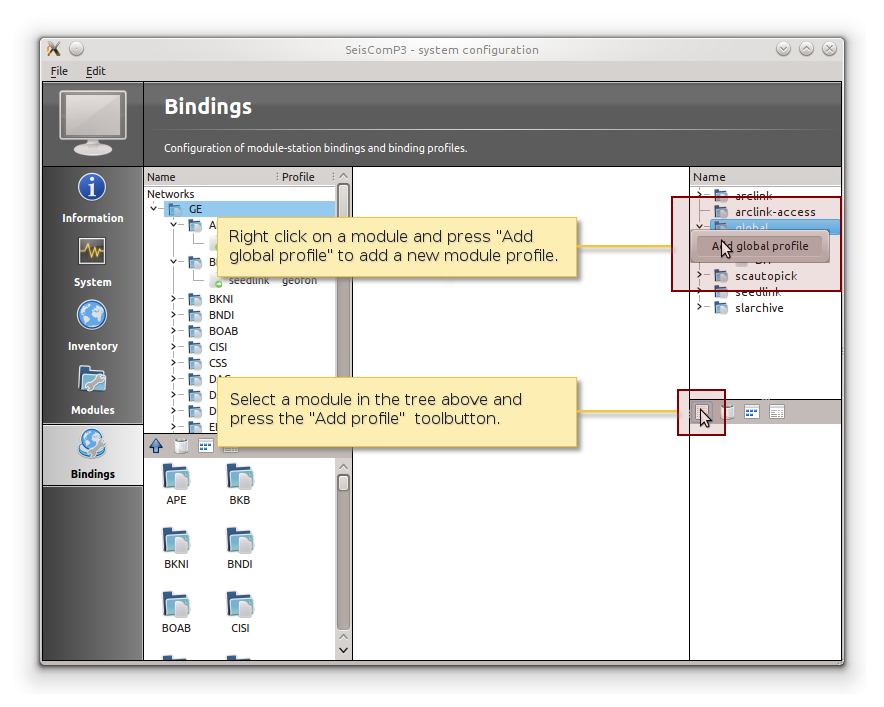
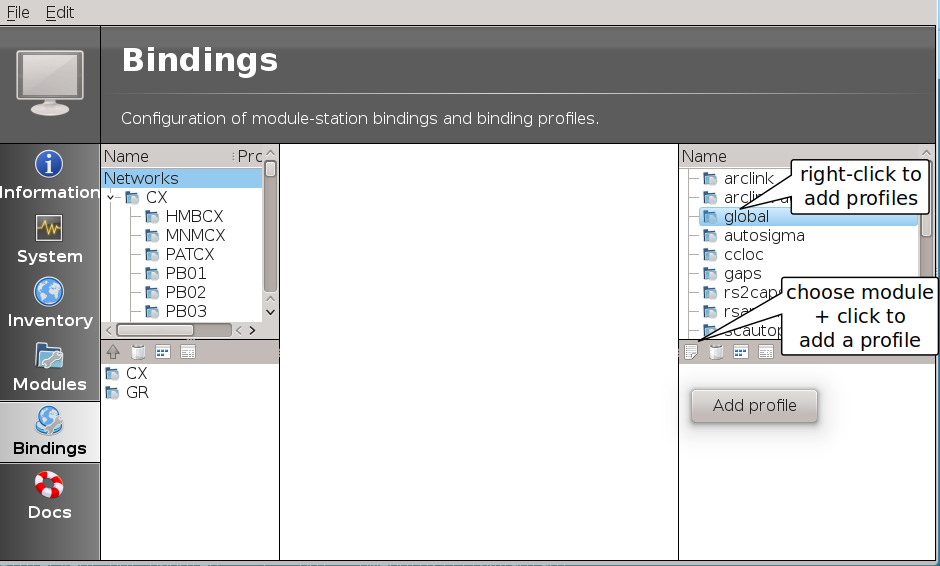
[scconfig] Update documentation

diff --git a/apps/tools/scconfig/descriptions/scconfig.rst b/apps/tools/scconfig/descriptions/scconfig.rst
@@ -1,11 +1,22 @@
-scconfig is a graphical user interface which allows to configure all SeisComP
-modules for which descriptions are provided.
+scconfig is a graphical user interface which allows to
+
+* Retrieve :ref:`information <scconfig-information>` about the installed |scname|
+  system,
+* :ref:`Control modules <scconfig-system>` and access logging file,
+* :ref:`Import, check, synchronize and remove <scconfig-inventory>` station meta
+  data/inventory,
+* Configure the :ref:`module configuration <scconfig-modules>` and
+  :ref:`bindings <scconfig-bindings>` all SeisComP modules for which descriptions
+  are provided,
+* Access the :ref:`documentation and the changelog <scconfig-documentation>`.
 
 The modules are usually programs part of the SeisComP system and have two
 distinct types of configuration:
 
-1. Modules configuration, or just program configuration (like the :file:`scautopick.cfg` file).
-2. Station bindings, that are set of parameters to configure how the module will treat a certain station. I.e. Station specific configurations per module.
+#. :ref:`Modules configuration <scconfig-modules>`, or just program configuration like the
+   :file:`scautopick.cfg` file.
+#. :ref:`Station bindings <scconfig-modules>`, that are set of parameters to configure how the module will
+   treat a certain station. I.e. Station specific configurations per module.
 
 The bindings configuration can be done using profiles, or directly per station.
 
@@ -75,6 +86,7 @@ is selected.
 
 .. figure:: media/scconfig/mainwindow.*
    :align: center
+   :width: 18cm
 
    Main window of scconfig: mode switch (red), panel selection (yellow),
    panel title and description (green),
@@ -95,6 +107,7 @@ configuration (:guilabel:`Save`) and to close the configuration (:guilabel:`Quit
 
 The edit menu allows to switch the current configuration mode. Pressing the
 switch button in the upper left corner (red box) is a shortcut for this operation.
+
 
 .. _scconfig-information:
 
@@ -120,6 +133,7 @@ The system panel is a graphical frontend for the :ref:`seiscomp <system-manageme
 
 .. figure:: media/scconfig/system-overview.*
    :align: center
+   :width: 18cm
 
 It is divided into 3 parts: the toolbar on the top (red), the module list (green)
 and the log window (blue).
@@ -163,20 +177,37 @@ without any module.
  module configuration or bindings have changed and before restarting the
  affected modules.
 
+For applying an action to all modules deselect any modules selection pressing
+:kbd:`ESC` and press the corresponding action button. When one ore multiple
+modules are selected, the action is only applied to those.
+
+
+To open the most recent log files of modules right click on the module name and
+select the available log.
+
+.. figure:: media/scconfig/system-start.png
+   :align: center
+   :width: 18cm
+
 
 .. _scconfig-inventory:
 
 Inventory panel
 ---------------
 
-The inventory panel allows to import and synchronize inventory files. It shows
+The inventory panel allows to import, check and synchronize inventory files as
+well as to inspect the content or to rename or remove the files. The panel shows
 a list of inventory XML files located in folder :file:`etc/inventory`. Only
-SeisComP XML files be used as source for inventory data but various importers
+:term:`SCML` files can be used as source for inventory data but various importers
 exist to integrate inventory data from other formats. After the first start
 the list is empty and contains only a README file.
 
 .. figure:: media/scconfig/inventory-empty.*
    :align: center
+   :width: 18cm
+
+Importing station meta data is outlined in the
+:ref:`tutorial on adding a station <tutorials_addstation>`.
 
 One source of importing inventory information is ArcLink as run at
 http://www.webdc.eu. After downloading the inventory XML file from ArcLink it
@@ -200,13 +231,35 @@ the import output.
 .. figure:: media/scconfig/inventory-import-finished.*
    :align: center
 
-After closing the popup the new file will show up in the list.
+After closing the popup the imported inventory file will show up in the list of
+files. Selecting a files by right-clicking allows:
+
+* Renaming,
+* Deleting,
+* Inspecting the content of
+
+the file.
 
 .. figure:: media/scconfig/inventory-arclink.*
    :align: center
+   :width: 18cm
 
 
-The toolbar support 3 additional actions:
+The toolbar support 4 additional actions:
+
+*Check inventory*
+ The inventory is checked for issues including inconsistencies wich are reported.
+ The tests are based on :ref:`scinv` and listed in the documentation of this
+ module. Adjust sensitivity by configuring :ref:`scinv`.
+
+*Sync keys*
+ This action is part of sync but can be called also standalone. It merges all
+ inventory XML files and creates key files in :file:`etc/key/station_*` if a
+ key file does not yet exist. Existing key files are not touched unless the
+ station is not part of the inventory anymore.
+
+ As a result, all stations in inventory will have a corresponding key file and
+ each key file will have a corresponding station in inventory.
 
 *Test sync*
  The inventory XML files are not used directly with SeisComP. They need to
@@ -226,16 +279,6 @@ The toolbar support 3 additional actions:
  Almost identical to *Test sync* but it does send updates to the database and
  additionally synchronizes key files and resource files.
 
-*Sync keys*
- This action is part of sync but can be called also standalone. It merges all
- inventory XML files and creates key files in :file:`etc/key/station_*` if a
- key file does not yet exist. Existing key files are not touched unless the
- station is not part of the inventory anymore.
-
- As a result, all stations in inventory will have a corresponding key file and
- each key file will have a corresponding station in inventory.
-
-
 *Sync* and *Sync keys* will cause a reload of the configuration to refresh the
 current binding tree (see :ref:`scconfig-bindings`).
 
@@ -249,6 +292,7 @@ The modules panel allows configuration of all registered modules.
 
 .. figure:: media/scconfig/modules-overview.*
    :align: center
+   :width: 18cm
 
 The left/green part shows the list of available modules grouped by defined
 categories and the right/blue part shows the current active module configuration.
@@ -261,13 +305,31 @@ section :ref:`scconfig-editing` for further information about the content panel.
 Bindings panel
 --------------
 
-The binding panel configures a station for a module.
+The binding panel configures a station for a module providing station-specific
+configuration such as data acquisition or processing. You may configure station
+bindings or binding profiles. The profiles are typically applied to a set of
+station. Any change in the profile parameters apply to all stations bound to it.
+
+.. hint::
+
+   Working with :ref:`bindings profiles <scconfig-bindings-profile>` allows to
+   maintain a single set of binding parameters for one or multiple stations.
+   :ref:`Station bindings <scconfig-bindings-station>` are useful if a set of
+   binding parameters are applied only to a single station. Otherwise configure
+   :ref:`binding profiles <scconfig-bindings-profile>`.
+   :ref:`Profiles <scconfig-bindings-profile>` are therefore preferred over
+   :ref:`station bindings <scconfig-bindings-station>` unless only one single
+   station shall be configured.
 
 .. figure:: media/scconfig/modules-binding.*
    :align: center
+   :width: 18cm
 
-It is separated into 3 main areas: the station tree (red + orange), the
-binding content (green) and the module tree (blue + magenta).
+The binding panel is separated into 3 main areas:
+
+* the station tree (red + orange),
+* the binding content (green),
+* the module tree (blue + magenta).
 
 The station tree (red) shows a tree of all available networks and their
 stations. Each stations contains nodes of its configured bindings. The lower
@@ -283,6 +345,41 @@ The upper/blue window contains the modules and all available binding profiles
 for each module and the lower/magenta part shows all binding profiles of the
 currently selected module. This view is used to add new profiles and delete
 existing profiles.
+
+
+.. _scconfig-bindings-profile:
+
+Profiles
+^^^^^^^^
+
+Create a profile
+~~~~~~~~~~~~~~~~
+
+For creating a binding profile select a module in the module tree (blue area)
+and right-click on the module or select the "add" button in the lower (magenta)
+panel. Provide a descriptive name. Clicking on the name of the profile opens the
+profile allowing to adjust the parameters.
+
+.. figure:: media/scconfig/modules-profiles.png
+   :align: center
+   :width: 18cm
+
+
+Create bindings
+~~~~~~~~~~~~~~~
+
+Assigning a binding profile to one or more stations creates one or more bindings.
+To assign a binding profile to a single station, a single network including all
+stations or all networks drag a profile from the right part (blue or magenta)
+to the target in the left part (red or orange).
+
+For assigning to a set of stations/networks, select the target first by mouse
+click and then drag to profile onto the selection.
+
+It is also possible to drag and drop multiple profiles with one action.
+
+
+.. _scconfig-bindings-station:
 
 Station bindings
 ^^^^^^^^^^^^^^^^
@@ -307,23 +404,35 @@ profile will be converted into a station binding and activated for editing.
    :align: center
 
 
-Profiles
-^^^^^^^^
+Applying bindings
+^^^^^^^^^^^^^^^^^
 
-To assign a binding profile to a station, a network or a set of stations/networks,
-drag a profile from the right part (blue or magenta) to the left part (red or
-orange). It is also possible to drag and drop multiple profiles with one action.
+The bindings parameters must be additionally written to the database or as for a
+:term:`standalone module` converted to the specific module configuration by
+updating the configuration. You may update configuration for all modules or just
+the specific one. To this end, change to the
+:ref:`System panel <scconfig-system>` select the specific module or none and
+press the button "*Update configuration*".
+
+Alternatively, execute the :ref:`seiscomp` script on the command line or all or
+the specific module:
+
+.. code-block:: sh
+
+   seiscomp update-config
+   seiscomp update-config module
 
 
 .. _scconfig-editing:
 
-Editing
--------
+Editing parameters
+------------------
 
 The content panel of a configuration is organized as a tree. Each module/binding
 name is a toplevel item and all namespace are titles of collapsible sections.
-Namespaces are separated by dot in the configuration file, e.g.: scautopick.cfg
-which also reads global.cfg would end up in a tree like this:
+Namespaces are separated by dot in the configuration file, e.g.
+:file:`scautopick.cfg which also reads :file:`global.cfg would end up in a tree
+like this:
 
 .. code-block:: sh
 
@@ -355,6 +464,7 @@ panel.
 
 .. figure:: media/scconfig/modules-global.*
    :align: center
+   :width: 18cm
 
    Content panel layout
 
@@ -385,7 +495,21 @@ and will color the input widget red in such situations.
 
 .. figure:: media/scconfig/config-warning.*
    :align: center
+   :width: 18cm
 
 The value in the edit widget will show the currently configured value in the
 active configuration file but the tooltip will show the evaluated value, the
 location of the definition and a warning.
+
+
+.. _scconfig-documentation:
+
+Documentation and changelog
+---------------------------
+
+Access the documentation and the changelog of any installad package from the
+Docs panel.
+
+.. figure:: media/scconfig/documentation.png
+   :align: center
+   :width: 18cm
